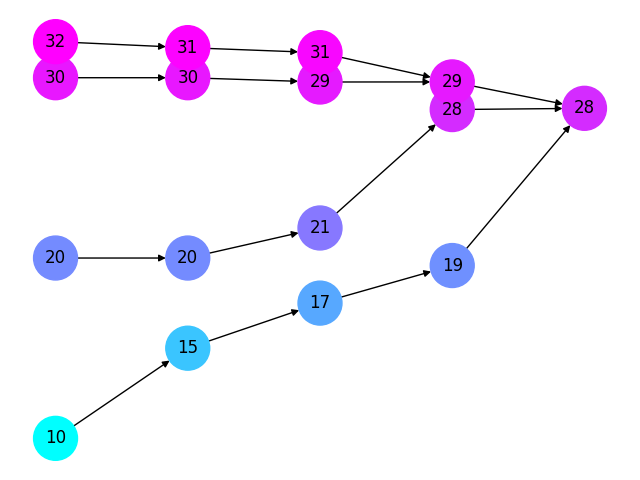
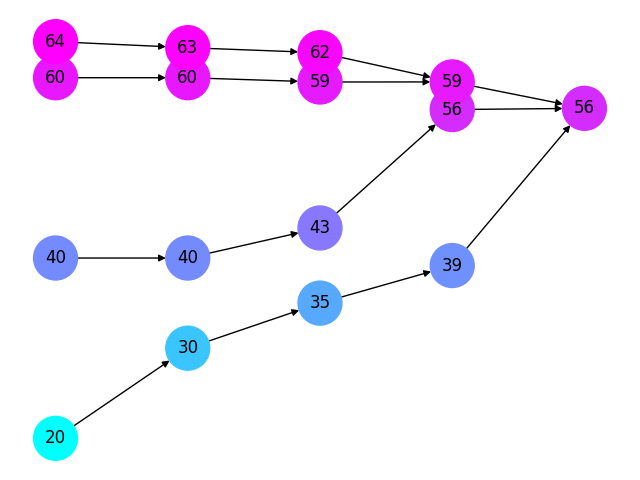
update pictures openness_monotonicity

diff --git a/figures.py b/figures.py
@@ -2,8 +2,8 @@ from model import BoundedConfidence
 from visualize import visualize
 
 if __name__ == "__main__":
-    start = [10, 20, 30, 32, 32, 32, 32, 32]
-    model = BoundedConfidence(start_distribution=start, confidence_threshold=11)
+    start = [20, 40, 60, 64, 64, 64, 64, 64]
+    model = BoundedConfidence(start_distribution=start, confidence_threshold=22)
     visualize(
         model=model,
         steps=6,
@@ -11,7 +11,7 @@ if __name__ == "__main__":
         output_file="images/openness_monotonicity_0",
     )
 
-    model = BoundedConfidence(start_distribution=start, confidence_threshold=12)
+    model = BoundedConfidence(start_distribution=start, confidence_threshold=24)
     visualize(
         model=model,
         steps=6,
